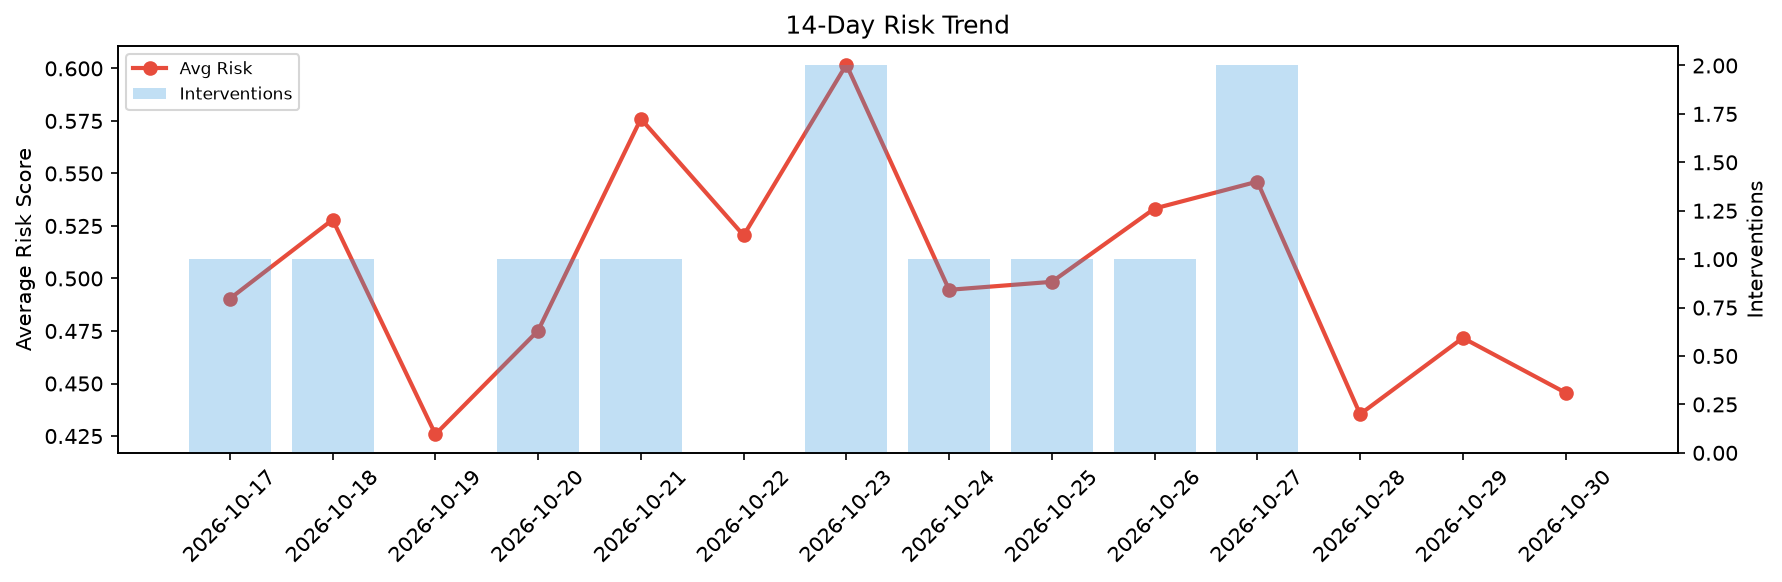
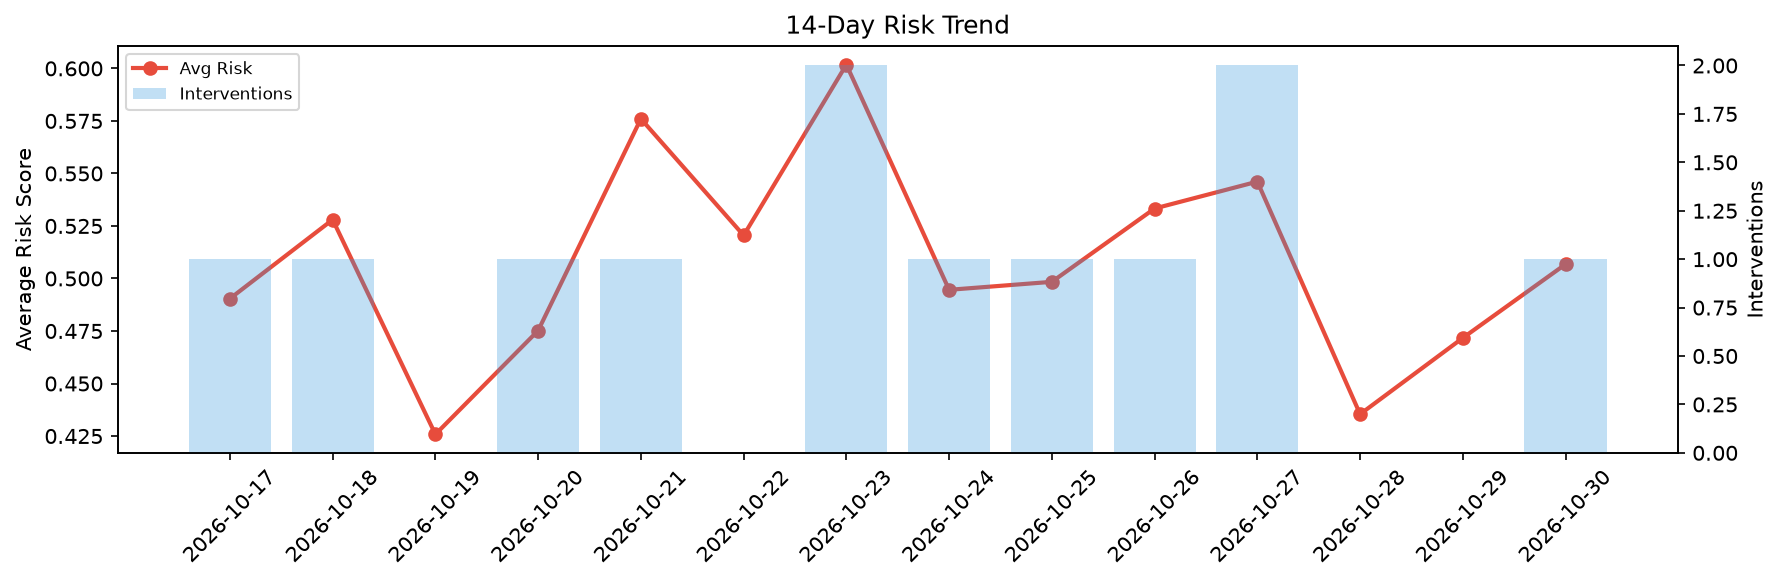
agent-improvement: daily cycle 2026-10-30T15:02

Changed region(s): [[0.8333, 0.433, 0.9259, 0.8041]]

diff --git a/logs/2026-10-30.md b/logs/2026-10-30.md
@@ -1,6 +1,6 @@
 # Agent Improvement Report — 2026-10-30
 
-**Cycle ID:** `f04622b9` | **Avg Risk:** 0.4456 | **Interventions:** 0/4
+**Cycle ID:** `f4948cd9` | **Avg Risk:** 0.5068 | **Interventions:** 1/4
 
 ![Dashboard](2026-10-30_dashboard.png)
 
@@ -10,18 +10,18 @@
 
 | Domain | Risk Score | Decision | Alerts |
 |--------|-----------|----------|--------|
-| code_review | 0.4361 | monitor | none |
-| incident_response | 0.5282 | monitor | blast_radius |
-| data_pipeline | 0.4445 | monitor | schema_drift |
-| deployment | 0.3738 | monitor | canary_error |
+| code_review | 0.4117 | monitor | none |
+| incident_response | 0.7638 | intervene | blast_radius, mttr |
+| data_pipeline | 0.2879 | monitor | none |
+| deployment | 0.5638 | monitor | canary_error |
 
 ## Delta vs Yesterday
 
 | Domain | Today | Yesterday | Change |
 |--------|-------|-----------|--------|
-| code_review | 0.4361 | 0.5694 | 📉 -23.4% |
-| incident_response | 0.5282 | 0.5811 | 📉 -9.1% |
-| data_pipeline | 0.4445 | 0.3658 | 📈 21.5% |
-| deployment | 0.3738 | 0.3705 | 📈 0.9% |
+| code_review | 0.4117 | 0.5694 | 📉 -27.7% |
+| incident_response | 0.7638 | 0.5811 | 📈 31.4% |
+| data_pipeline | 0.2879 | 0.3658 | 📉 -21.3% |
+| deployment | 0.5638 | 0.3705 | 📈 52.2% |
 
-**Refinement:** `{'adjustment': 'maintain', 'trend': 'improving', 'window': 4}`
+**Refinement:** `{'adjustment': 'tighten_thresholds', 'trend': 'degrading', 'window': 4}`
